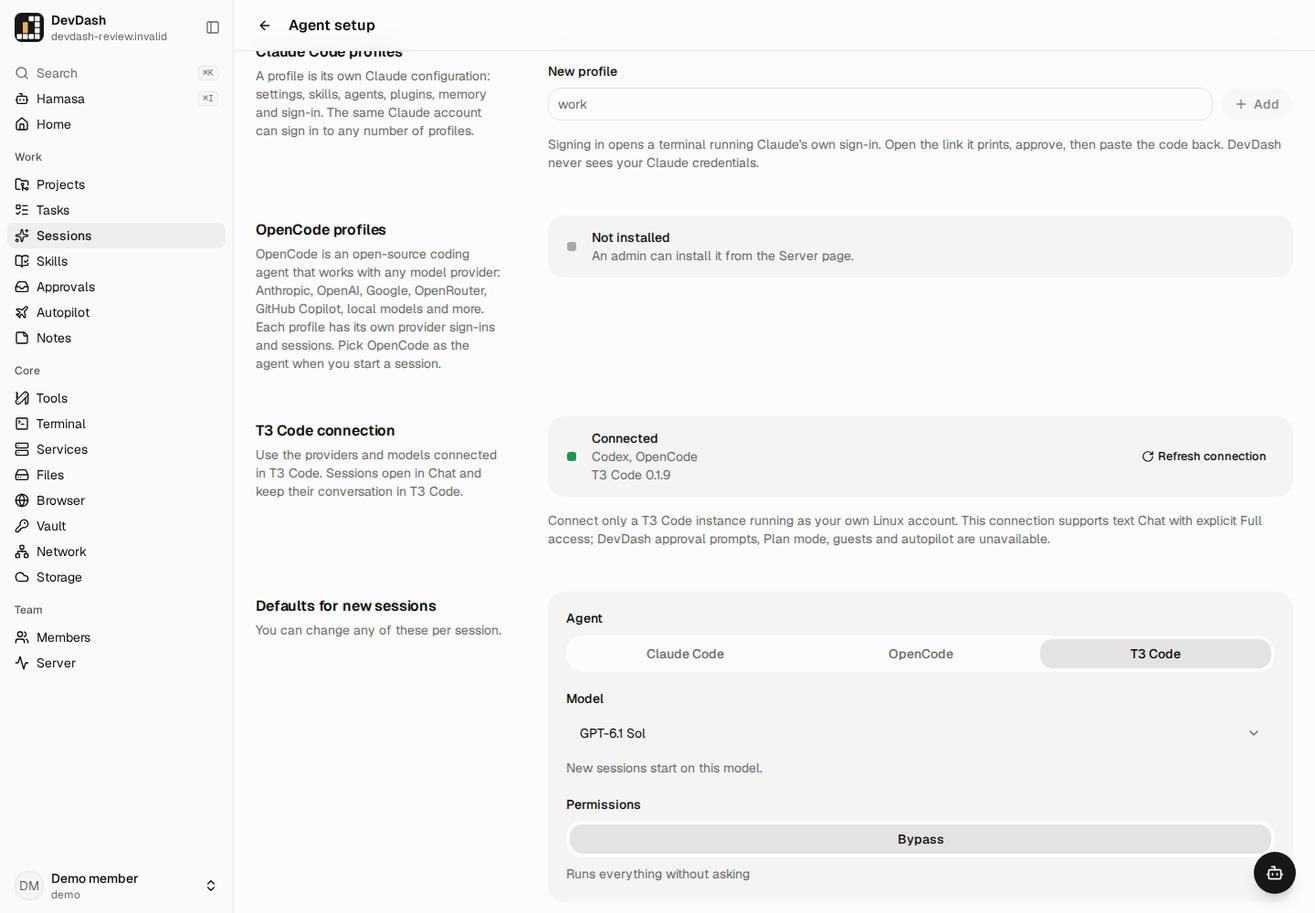
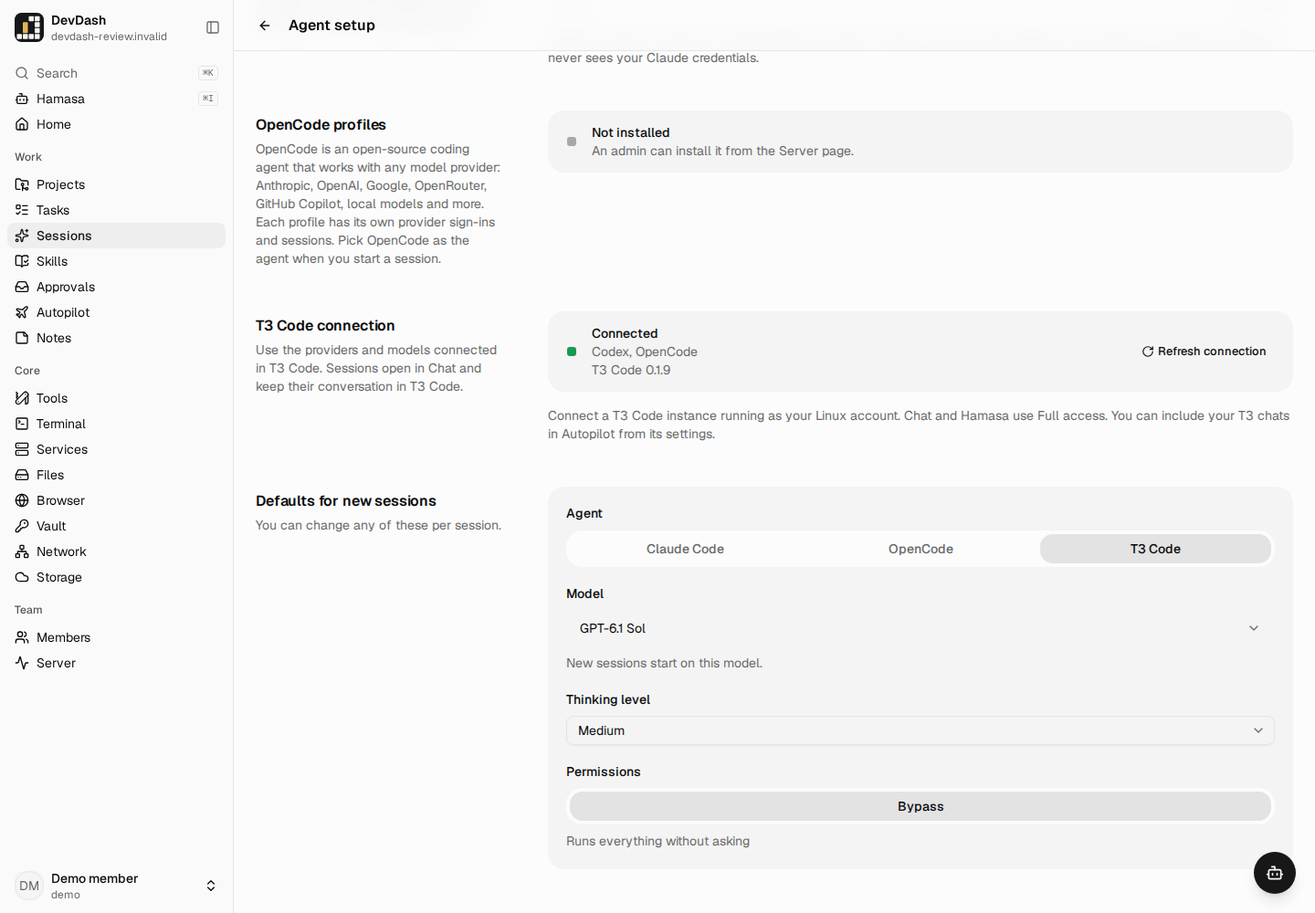
Respect native T3 waits and recheck pending Autopilot actions

diff --git a/apps/server/src/modules/autopilot/service.ts b/apps/server/src/modules/autopilot/service.ts
@@ -83,6 +83,7 @@ export function autopilotService({ db, hub, claude, notify, team = () => undefin
     inboxAdd: db.prepare('insert into autopilot_inbox (user_id, session_id, thread_id, kind, title, detail, created_at, url) values (?, ?, ?, ?, ?, ?, ?, ?) returning id'),
     inboxUrl: db.prepare('select id from autopilot_inbox where user_id = ? and url = ? and title = ? and resolved_at is null'),
     teamOn: db.prepare('select project_id from autopilot_team where user_id = ?'),
+    projectOn: db.prepare('select 1 from autopilot_team where user_id = ? and project_id = ?'),
     teamDone: db.prepare('select 1 from autopilot_team_done where user_id = ? and item = ?'),
     markTeamDone: db.prepare('insert or ignore into autopilot_team_done (user_id, item, at) values (?, ?, ?)'),
     resolveSession: db.prepare('update autopilot_inbox set resolved_at = ? where session_id = ? and resolved_at is null'),
@@ -504,9 +505,8 @@ export function autopilotService({ db, hub, claude, notify, team = () => undefin
       // A settings change or teammate turn can happen during either the history read or the model call.
       const stillCurrent = () => {
         if (s.harness !== 't3code' && r.sv_harness !== 't3code') return true
-        const latest = active(user.id)
-        if (!latest || latest.r.rules !== r.rules || JSON.stringify(settingsOf(latest.r)) !== JSON.stringify(settingsOf(r))) return false
-        const current = candidates(user, latest.r, s.id)[0]
+        if (!sameSettings(user.id, r)) return false
+        const current = candidates(user, r, s.id)[0]
         return current?.verdict.act === true && current.c.goal === c.goal && current.c.lastActivity === c.lastActivity && current.c.status === c.status
       }
       if (!stillCurrent()) return
@@ -550,6 +550,11 @@ export function autopilotService({ db, hub, claude, notify, team = () => undefin
     if (!r?.enabled || (r.paused_until && r.paused_until > Math.floor(now() / 1000))) return null
     const user = q.user.get(userId) as User | undefined
     return user ? { r, user } : null
+  }
+
+  function sameSettings(userId: number, previous: Row) {
+    const current = active(userId)?.r
+    return !!current && current.rules === previous.rules && JSON.stringify(settingsOf(current)) === JSON.stringify(settingsOf(previous))
   }
 
   let sweeping = false
@@ -615,12 +620,15 @@ export function autopilotService({ db, hub, claude, notify, team = () => undefin
     const room = { checked: false }
     const fresh = (at: number) => nowS - at < TEAM_WAIT_MIN * 60
     for (const projectId of projects) {
+      const stillEnabled = () => sameSettings(user.id, r) && !!q.projectOn.get(user.id, projectId)
+      if (!stillEnabled()) continue
       const w = t.waiting(projectId)
       const items = [
         ...w.proposals.map((x) => ({ of: 'proposal' as const, key: `proposal:${x.id}`, at: x.createdAt, x })),
         ...w.asks.filter((x) => x.ask).map((x) => ({ of: 'ask' as const, key: `ask:${x.id}:${x.lastMessage}`, at: x.updatedAt, x })),
       ]
       for (const it of items) {
+        if (!stillEnabled()) break
         if (fresh(it.at) || q.teamDone.get(user.id, it.key)) continue
         if ((q.sentSince.get(user.id, nightStart(now(), r.tz, r.ping_at)) as { n: number }).n >= r.night_cap) return
         const x = it.x
@@ -632,19 +640,27 @@ export function autopilotService({ db, hub, claude, notify, team = () => undefin
           log(user.id, { tier: 'red', source: 'supervisor', project: x.project, what: `Left for you: ${clip(what, 300)}`, why })
           done.push({ user: user.id, session: it.key, what: 'needs_you' })
         }
-        q.markTeamDone.run(user.id, it.key, nowS) // once, whatever happens next
+        const claim = () => !!q.markTeamDone.run(user.id, it.key, nowS).changes
+        const stillPending = () => {
+          if (!stillEnabled()) return false
+          const waiting = t.waiting(projectId)
+          return it.of === 'proposal' ? waiting.proposals.some((p) => p.id === it.x.id)
+            : waiting.asks.some((a) => a.id === it.x.id && !!a.ask && a.lastMessage === it.x.lastMessage)
+        }
         const text = it.of === 'proposal' ? `${x.title}\n${(x as { why: string }).why}` : `${x.title}\n${(x as { ask: string }).ask}`
         // "Other" proposals are a person's call by Team's own design; red words never reach a model.
         const red = it.of === 'proposal' && (x as { kind: string }).kind === 'other' ? "it's a decision Team leaves to a person" : redQuestion(text)
         if (red) {
-          leave(red)
+          if (claim()) leave(red)
           continue
         }
         if (!room.checked) {
           room.checked = true
           if (!(await hasRoom(user, r))) return
         }
+        if (!stillPending()) continue
         if (checkSvCap(user, r)) return
+        let claimed = false
         try {
           const sv = settingsOf(r)
           const prompt = it.of === 'proposal'
@@ -654,6 +670,9 @@ export function autopilotService({ db, hub, claude, notify, team = () => undefin
             system: teamSystem(user.name) + renderRules(r.rules, user.name),
             model: sv.svModel, profile: sv.svProfile, harness: harnessOf(sv.svHarness), ...(sv.svEffort ? { effort: sv.svEffort } : {}),
           }), it.of)
+          // A teammate can answer, the member can opt out, or the review settings can change during inference.
+          if (!stillPending() || !claim()) continue
+          claimed = true
           if (!d || d.action === 'needs_you') {
             leave(d?.why || "autopilot couldn't tell what you'd want", d?.message)
             continue
@@ -669,6 +688,7 @@ export function autopilotService({ db, hub, claude, notify, team = () => undefin
           }
           done.push({ user: user.id, session: it.key, what: d.action })
         } catch (err) {
+          if (!claimed && (!stillPending() || !claim())) continue
           console.error(`autopilot team ${it.key}:`, (err as Error).message)
           leave(`autopilot couldn't act on it: ${clip((err as Error).message, 150)}`)
         }
@@ -687,6 +707,7 @@ export function autopilotService({ db, hub, claude, notify, team = () => undefin
       if (!current || (current.s.harness === 't3code' && !active(user.id))) continue
       const { s, c, mem } = current
       if (c.excluded || c.archived || c.mode !== 'chat' || c.status === 'working') continue
+      if (s.harness === 't3code' && c.status === 'waiting') continue
       let replies: { thread_id: number; title: string; message_id: number; body: string; kind: string; author_label: string }[]
       try {
         replies = q.threadReplies.all(s.id) as typeof replies

diff --git a/apps/agent/src/t3-integration.test.ts b/apps/agent/src/t3-integration.test.ts
@@ -141,8 +141,8 @@ const http = createServer(async (req, res) => {
       const item = t.items.find((i) => i.itemId === `assistant-${current.runId}`)!
       item.text = t.behavior === 'stream' ? (t.reads < 3 ? 'Hel' : 'Hello') : t.behavior === 'cancel' ? 'Working' : ['long', 'longstall'].includes(t.behavior) ? 'L'.repeat(60010) : t.behavior === 'waiting' ? (t.reads < 3 ? '' : 'Approved') : 'Done'
       if (t.behavior === 'transient') { current.status = t.reads < 2 ? 'running' : 'completed'; t.status = t.reads < 2 ? 'waiting' : 'completed'; item.text = 'Final reply'; if (current.status === 'completed') item.status = 'completed' }
-      if (t.behavior === 'waiting') { current.status = t.reads < 3 ? 'waiting' : 'completed'; t.status = current.status }
-      if (['quick', 'long'].includes(t.behavior) || (['stream', 'waiting'].includes(t.behavior) && t.reads >= 3)) {
+      if (t.behavior === 'waiting') { current.status = t.reads < 3 ? 'waiting' : 'running'; t.status = current.status }
+      if (['quick', 'long'].includes(t.behavior) || (t.behavior === 'stream' && t.reads >= 3) || (t.behavior === 'waiting' && t.reads >= 4)) {
         current.status = 'completed'; t.status = 'completed'; item.status = 'completed'
         if (t.behavior === 'stream') t.items.push({ itemId: `tool-${current.runId}`, position: t.items.length, runId: current.runId, type: 'command_execution', createdBy: 'agent', title: 'echo checked', text: 'checked', status: 'completed' })
       }
@@ -176,9 +176,9 @@ const launch = (): Launch => {
 }
 const isResult = (id: string) => (e: Record<string, unknown>) => e.id === id && e.ev === 'claude.msg' && (e.msg as { type?: string }).type === 'result'
 async function turn(l: Launch, text: string) {
-  const result = eventAfter(events.length, isResult(l.id))
+  const start = events.length
   await H.send(l, [{ type: 'text', text }], randomUUID())
-  return (await result).msg as Record<string, unknown>
+  return (await eventAfter(start, isResult(l.id))).msg as Record<string, unknown>
 }
 const contentText = (message: unknown) => ((message as { message?: { content?: { type: string; text?: string }[] } }).message?.content ?? []).filter((b) => b.type === 'text').map((b) => b.text ?? '').join('')
 test.after(async () => {
@@ -238,12 +238,13 @@ process.stdin.on('end', () => server.close())
   const models = [{ id: 'account/chosen', options: [{ id: 'variant', values: ['high', 'stale'] }] }]
   const providers = [
     { providerInstanceId: 'local', driverKind: 'opencode' },
+    { providerInstanceId: 'broken', driverKind: 'opencode' },
     { providerInstanceId: 'custom', driverKind: 'opencode' },
     { providerInstanceId: 'other', driverKind: 'codex' },
   ]
   supervisorProviders = providers.map((p) => ({ ...p, canRunChildTask: true, displayName: p.providerInstanceId, models }))
   const simple = { driver: 'opencode', enabled: true, config: { binaryPath: binary } }
-  const settings = { providerInstances: { local: simple, custom: { ...simple, config: { ...simple.config, env: { ACCOUNT: 'another' } } }, other: simple } }
+  const settings = { providerInstances: { local: simple, broken: { ...simple, config: { binaryPath: '/bin/false' } }, custom: { ...simple, config: { ...simple.config, env: { ACCOUNT: 'another' } } }, other: simple } }
   mkdirSync(join(folder, 'userdata'))
   writeFileSync(join(folder, 'userdata/settings.json'), JSON.stringify(settings))
   writeFileSync(config, JSON.stringify({ ...JSON.parse(original), baseDir: folder }))
@@ -452,13 +453,17 @@ test('T3 full text pages are joined and waiting notices point to T3 without bein
   assert.equal(done.result, 'Approved')
   const notices = events.slice(start).filter((e) => e.id === l.id && e.ev === 'claude.msg' && (e.msg as { type?: string }).type === 'assistant').map((e) => contentText(e.msg)).filter((text) => text.includes('needs an answer'))
   assert.equal(notices.length, 1)
+  assert.deepEqual(events.slice(start).filter((e) => e.id === l.id && e.ev === 'claude.status').map((e) => e.status), ['working', 'waiting', 'working', 'idle'])
+  assert.equal(H.pendingFor(l.id).length, 0)
   assert.match(notices[0]!, /https:\/\/t3.example\/thread/)
   await H.stop(l.id)
 })
 
 test('T3 transient waiting without a pending request does not replace the real final reply', async () => {
   const l = launch()
+  const start = events.length
   const done = await turn(l, 'transient-wait')
+  assert.ok(!events.slice(start).some((e) => e.id === l.id && e.ev === 'claude.status' && e.status === 'waiting'))
   assert.equal(done.result, 'Final reply')
   const history = H.history(l).messages.map(contentText).join('\n')
   assert.ok(!history.includes('needs an approval or answer'))
@@ -591,9 +596,11 @@ test('Hamasa and Autopilot invoke only their workflow tools with the current mem
   const native = `thread-${threads.size + 1}`
   const socket = join(home, "member's agent.sock")
   const requests: { method: string; params: { sessionId: string; cwd: string; args: Record<string, unknown> } }[] = []
+  let brokenReply: 'invalid' | 'disconnect' | undefined
   const server = unixServer((s) => s.on('data', (buf) => {
     const req = JSON.parse(String(buf))
     requests.push(req)
+    if (brokenReply && req.method === 'mcp.sessions_list') return s.end(brokenReply === 'invalid' ? 'invalid JSON\n' : '')
     const reply = req.method === 'mcp.assistant_here' ? { name: 'Test' } : req.method === 'mcp.autopilot_here' ? true : req.method === 'mcp.team_role' ? { session: true } : 'From the member socket'
     s.end(JSON.stringify({ result: reply }) + '\n')
   })).listen(socket)
@@ -624,6 +631,14 @@ test('Hamasa and Autopilot invoke only their workflow tools with the current mem
         cmd.child.stdin!.end('{"mine":true}')
         assert.match((await cmd).stdout, /From the member socket/)
         assert.deepEqual(requests.at(-1), { op: 'rpc', method: 'mcp.' + name, params: { sessionId: l.id, cwd: home, args: { mine: true } } })
+        if (assistant) {
+          for (brokenReply of ['invalid', 'disconnect'] as const) {
+            const broken = run(helper, ['call', name])
+            broken.child.stdin!.end('{}')
+            await assert.rejects(broken, brokenReply === 'invalid' ? /unreadable response/ : /disconnected before answering/)
+          }
+          brokenReply = undefined
+        }
         const rejected = run(helper, ['call', 'unlisted'])
         rejected.child.stdin!.end('{}')
         await assert.rejects(rejected, /Unknown workflow tool/)

diff --git a/apps/web/src/features/claude/SessionsPage.tsx b/apps/web/src/features/claude/SessionsPage.tsx
@@ -200,12 +200,16 @@ export function NewSession({ open, onClose, initialPrompt = '', initialCwd, init
   useEffect(() => { if (open) { setPrompt(initialPrompt); setCwd(initialCwd ?? sessionFolder()); setProject(initialProject ?? ''); setSharing(null) } }, [open, initialPrompt, initialCwd, initialProject])
 
   const agent = HARNESS[harness]
-  const other = (setup.data?.agents as { harness: string; installed: boolean; profiles: { name: string }[]; error?: string }[] | undefined)?.find((a) => a.harness === harness)
+  const other = (setup.data?.agents as { harness: string; installed: boolean; profiles: { name: string; providers: string[] }[]; error?: string }[] | undefined)?.find((a) => a.harness === harness)
   // Claude profiles say whether they're signed in; OpenCode's always work (its free models need no sign-in).
   const profiles = harness === 'claude' ? (setup.data?.profiles as { name: string; loggedIn: boolean }[] | undefined) ?? []
     : (other?.profiles ?? []).map((p) => ({ name: p.name, loggedIn: true }))
   const chosen = profiles.find((p) => p.name === profile)
-  const missing = harness !== 'claude' && setup.isSuccess && (!other?.installed || other.error) ? other ?? { error: 'This agent is unavailable.' } : undefined
+  let missing: string | undefined
+  if (harness !== 'claude' && setup.isSuccess) {
+    if (other?.error || !other?.installed) missing = other?.error || (harness === 't3code' ? 'T3 Code is not connected.' : 'This agent is unavailable.')
+    else if (harness === 't3code' && !other.profiles.some((p) => p.providers.length)) missing = 'Connect a model provider in T3 Code, then refresh the connection in Agent setup.'
+  }
   // The models this agent offers (Claude Code's with their versions; OpenCode's from every provider you connected).
   const offered = useOfferedModels(profile, harness, model, open && !missing && (!profiles.length || !!chosen))
   const models: ModelInfo[] = offered?.length ? offered : harness === 'claude' ? FALLBACK_MODELS : [{ value: '', displayName: 'Default' }]
@@ -226,9 +230,10 @@ export function NewSession({ open, onClose, initialPrompt = '', initialCwd, init
       navigate({ to: '/sessions/$id', params: { id: session.id } })
     },
   })
+  const canStart = !create.isPending && !missing && supportedMode && (!customModel || !!model.trim())
   const submit = (e: FormEvent) => {
     e.preventDefault()
-    if (!create.isPending && supportedMode) create.mutate()
+    if (canStart) create.mutate()
   }
 
   return (
@@ -268,10 +273,10 @@ export function NewSession({ open, onClose, initialPrompt = '', initialCwd, init
           )}
           <Choice id="ns-agent" label="Agent" value={harness} onChange={(v) => { const next = HARNESS[v as Harness]; setHarness(v as Harness); setProfile('default'); setModel(''); setEffort(null); setCustomModel(false); if (!next.cli) setOpenIn('chat'); if (!next.modes.includes(perm)) setPerm('bypassPermissions') }}
             options={HARNESSES.map((h) => ({ value: h, label: HARNESS[h].label }))} description={agent.hint} />
-          {!agent.toolPolicies && <Alert><AlertDescription>This connection runs with your Linux account’s full access. DevDash approval prompts, Plan mode, guest permissions and autopilot are unavailable.</AlertDescription></Alert>}
+          {!agent.toolPolicies && <Alert><AlertDescription>This connection runs with your Linux account’s full access. To include T3 chats in Autopilot, enable them in Autopilot settings.</AlertDescription></Alert>}
           {missing && (
             <Alert variant="destructive">
-              <AlertDescription>{harness === 't3code' ? <>{missing.error || 'T3 Code is not connected.'} <Link to="/sessions/setup" className="underline" onClick={onClose}>Check the connection</Link>.</> : <>{agent.label} isn't installed on this server yet. An admin can install it from the <Link to="/server" className="underline" onClick={onClose}>Server page</Link>.</>}</AlertDescription>
+              <AlertDescription>{harness === 't3code' ? <>{missing} <Link to="/sessions/setup" className="underline" onClick={onClose}>Check the connection</Link>.</> : <>{agent.label} isn't installed on this server yet. An admin can install it from the <Link to="/server" className="underline" onClick={onClose}>Server page</Link>.</>}</AlertDescription>
             </Alert>
           )}
           {harness === 'opencode' && !missing && offered?.length === 0 && (
@@ -304,7 +309,7 @@ export function NewSession({ open, onClose, initialPrompt = '', initialCwd, init
             options={[{ value: 'chat', label: 'Chat' }, { value: 'cli', label: 'CLI' }]}
             description={openIn === 'cli' ? `${agent.cli}. You can switch to Chat any time.` : `A chat view of ${agent.label}. You can switch to the CLI any time.`} />}
           <ErrorAlert error={create.error} />
-          <Button type="submit" size="lg" className="h-10" disabled={create.isPending || !!missing || !supportedMode || (customModel && !model.trim())}>
+          <Button type="submit" size="lg" className="h-10" disabled={!canStart}>
             {create.isPending && <Spinner />}Start session
           </Button>
         </FieldGroup>

diff --git a/apps/server/src/modules/autopilot/autopilot.test.ts b/apps/server/src/modules/autopilot/autopilot.test.ts
@@ -273,6 +273,12 @@ test("a role's reply in a thread the session started is passed on to it, once", 
   const msg = t.db.prepare('insert into team_messages (thread_id, kind, body, author_role_id, author_session_id, author_label) values (?, ?, ?, ?, ?, ?)')
   msg.run(th, 'question', 'Can we ship the pricing page?', null, 's1', 'Session s1')
   msg.run(th, 'reply', 'Yes, but drop the annual toggle.', ceo, null, 'CEO')
+  // A native question must stay with its owner even if a role answered the session's thread.
+  t.db.prepare("update claude_sessions set harness = 't3code', drive = 0, permission_mode = 'bypassPermissions', status = 'waiting' where id = 's1'").run()
+  await t.autopilot.setSettings(t.yo, { t3Sessions: true })
+  await t.autopilot.sweep()
+  assert.equal(t.sends().length, 0)
+  t.quiet('s1')
   const did = await t.autopilot.sweep()
   assert.ok(did.some((d) => d.what === 'relay'))
   assert.match(JSON.stringify(t.sends().at(-1)!.content), /CEO wrote in team thread #\d+ \\"Pricing page\\"[\s\S]*drop the annual toggle/)
@@ -749,4 +755,31 @@ test('disabling T3 enrollment during a supervisor decision also skips later T3 t
   assert.deepEqual(await t.autopilot.sweep(), [])
   assert.equal(t.sent.filter((r) => r.op === 'claude.history').length, 1)
   assert.equal(t.sends().length, 0)
+})
+
+test('a T3 supervisor cannot answer a team ask after its project is turned off mid-decision', async () => {
+  const answers: string[] = []
+  const t = setup({ team: {
+    projects: () => [{ id: 1, slug: 'shop', name: 'Shop' }],
+    waiting: () => ({ proposals: [], asks: [{ id: 7, title: 'Wording', ask: 'Short or long?', role: 'CEO', project: 'shop',
+      updatedAt: nowS - 3600, lastMessage: 1, url: '/projects/shop/team/threads/7', recent: ['Short or long?'] }] }),
+    approve: async () => {},
+    answer: (_u, _slug, _id, text) => answers.push(text),
+  } })
+  t.db.prepare("insert into projects (id, slug, name, created_by) values (1, 'shop', 'Shop', 1)").run()
+  t.autopilot.setEnabled(t.yo, true)
+  t.autopilot.setTeam(t.yo, 1, true)
+  await t.autopilot.setSettings(t.yo, { svHarness: 't3code', svModel: 'opencode/test/model' })
+  const complete = t.claude.complete
+  t.claude.complete = async () => {
+    t.autopilot.setTeam(t.yo, 1, false)
+    return '{"action":"answer","tier":"green","message":"Short","why":"agreed"}'
+  }
+  assert.deepEqual(await t.autopilot.teamAsks(t.yo), [])
+  assert.equal(answers.length, 0)
+  t.claude.complete = complete
+  t.reply.decision = '{"action":"answer","tier":"green","message":"Short","why":"agreed"}'
+  t.autopilot.setTeam(t.yo, 1, true)
+  await t.autopilot.teamAsks(t.yo)
+  assert.equal(answers.length, 1)
 })

diff --git a/apps/agent/src/t3code.ts b/apps/agent/src/t3code.ts
@@ -51,8 +51,12 @@ function supervisorBins(providers: Capabilities['providers']): Map<string, strin
       const config = instance.config ?? {}
       if (config.enabled === false || Object.keys(config).some((k) => !['binaryPath', 'customModels', 'enabled'].includes(k))) continue
       const bin = config.binaryPath
-      if (typeof bin !== 'string' || !isAbsolute(bin) || !statSync(bin, { throwIfNoEntry: false })?.isFile()) continue
-      try { accessSync(bin, constants.X_OK); bins.set(p.providerInstanceId, bin) } catch { /* unusable executable */ }
+      if (typeof bin !== 'string' || !isAbsolute(bin)) continue
+      try {
+        if (!statSync(bin).isFile()) continue
+        accessSync(bin, constants.X_OK)
+        bins.set(p.providerInstanceId, bin)
+      } catch { /* An unusable executable doesn't affect the member's other instances. */ }
     }
   } catch { /* Other T3 chat models remain available without local provider configuration. */ }
   return bins
@@ -71,7 +75,10 @@ export async function supervisorTarget(value: string, effort?: string) {
 export async function modelChoices(search?: string, supervisor = false) {
   const { capabilities } = await inspect(5000, search)
   const bins = supervisor ? supervisorBins(capabilities.providers) : new Map<string, string>()
-  const catalogs = new Map(await Promise.all([...new Set(bins.values())].map(async (bin) => [bin, await supervisorModels(bin)] as const)))
+  const catalogs = new Map<string, Awaited<ReturnType<typeof supervisorModels>>>()
+  const probes = await Promise.allSettled([...new Set(bins.values())].map(async (bin) => catalogs.set(bin, await supervisorModels(bin))))
+  const failed = probes.find((probe) => probe.status === 'rejected')
+  if (!catalogs.size && failed) throw failed.reason
   const rows = capabilities.providers.flatMap((p) => {
     const native = catalogs.get(bins.get(p.providerInstanceId) ?? '')
     return p.models.flatMap((m) => {

diff --git a/apps/agent/src/t3-acp.ts b/apps/agent/src/t3-acp.ts
@@ -280,7 +280,8 @@ const handlers: Record<string, (p: Record<string, unknown>) => unknown> = {
       const runId = result.runId
       running = runId
       const deadline = deadlineAt
-      let announcedWaiting = false
+      let waiting = false
+      let waits = 0
       let settled = false
       let cursor = afterPosition
       let interval = 250
@@ -308,9 +309,11 @@ const handlers: Record<string, (p: Record<string, unknown>) => unknown> = {
             settled = true
             throw new Error('T3 Code reached the turn time limit and the DevDash-started run was stopped.')
           }
-          if (thread.status === 'waiting' && (thread.pendingRequestCount ?? 0) > 0 && !announcedWaiting) {
-            announcedWaiting = true
-            update({ sessionUpdate: 'agent_message_chunk', messageId: `waiting-${runId}`, content: { type: 'text', text: `\nT3 Code needs an answer. Continue in T3 Code${thread.link ? `: ${thread.link}` : '.'}\n` } })
+          const pending = thread.status === 'waiting' && (thread.pendingRequestCount ?? 0) > 0
+          if (pending !== waiting) {
+            waiting = pending
+            update({ sessionUpdate: 'session_info_update', _meta: { 'devdash/t3-status': { status: pending ? 'waiting' : 'working' } } })
+            if (pending) update({ sessionUpdate: 'agent_message_chunk', messageId: `waiting-${runId}-${++waits}`, content: { type: 'text', text: `\nT3 Code needs an answer. Continue in T3 Code${thread.link ? `: ${thread.link}` : '.'}\n` } })
           }
           // Completed older items need not be paged again. Keep the newest item and any unfinished items because
           // their positions stay fixed while T3 appends streamed text or finishes tool output.

diff --git a/apps/web/src/features/claude/SessionPage.tsx b/apps/web/src/features/claude/SessionPage.tsx
@@ -548,7 +548,7 @@ export function ModelMenu({ s, disabled, isOwner, onUpdate, compact }: { s: Sess
   const t3Busy = harness === 't3code' && (s.status === 'working' || s.status === 'waiting')
   return (
     <DropdownMenu>
-      <DropdownMenuTrigger asChild disabled={disabled}>
+      <DropdownMenuTrigger asChild disabled={disabled || t3Busy}>
         {compact ? (
           <Button variant="ghost" size="icon" className="shrink-0" aria-label="Model, effort and permissions" title="Model, effort and permissions"><SlidersHorizontal /></Button>
         ) : (
@@ -580,7 +580,7 @@ export function ModelMenu({ s, disabled, isOwner, onUpdate, compact }: { s: Sess
           </DropdownMenuSubContent>
         </DropdownMenuSub>
         {agent.effort && (harness === 'claude' || levels.length > 0 || (harness === 't3code' && !!s.effort)) && <DropdownMenuSub>
-          <DropdownMenuSubTrigger disabled={t3Busy}>{harness === 't3code' ? `Thinking level: ${s.effort ? effortLabel(s.effort) : 'Default'}` : `Effort: ${s.effort ?? 'auto'}`}</DropdownMenuSubTrigger>
+          <DropdownMenuSubTrigger>{harness === 't3code' ? `Thinking level: ${s.effort ? effortLabel(s.effort) : 'Default'}` : `Effort: ${s.effort ?? 'auto'}`}</DropdownMenuSubTrigger>
           <DropdownMenuSubContent>
             <DropdownMenuRadioGroup value={s.effort ?? ''} onValueChange={(v) => onUpdate({ effort: v || null })}>
               <DropdownMenuRadioItem value="">{harness === 't3code' ? 'Default' : 'Auto'}</DropdownMenuRadioItem>

diff --git a/apps/web/src/features/claude/SetupPage.tsx b/apps/web/src/features/claude/SetupPage.tsx
@@ -107,7 +107,7 @@ function T3CodeSection({ agent, refresh, refreshing, error }: { agent: Agent | u
         <span className="flex size-5 shrink-0 items-center justify-center"><StatusLight state={connected ? 'live' : 'idle'} /></span>
         <span className="min-w-0 flex-1">
           <span className="block font-medium">{connected ? 'Connected' : 'Not connected'}</span>
-          <span className="block text-pretty text-muted-foreground">{agent?.error || (connected ? providers.join(', ') || 'T3 Code is ready.' : 'Configure a T3 Code connection for your account on this server, then check again.')}</span>
+          <span className="block text-pretty text-muted-foreground">{agent?.error || (connected ? providers.join(', ') || 'Connect a model provider in T3 Code, then refresh the connection.' : 'Configure a T3 Code connection for your account on this server, then check again.')}</span>
           {connected && agent?.version && <span className="block text-muted-foreground">T3 Code {agent.version}</span>}
         </span>
         <Button size="sm" variant="outline" disabled={refreshing} onClick={refresh}><RotateCw className={refreshing ? 'animate-spin' : ''} />Refresh connection</Button>

diff --git a/apps/agent/src/harness.ts b/apps/agent/src/harness.ts
@@ -416,6 +416,8 @@ function update(c: Chat, p: Record<string, unknown>) {
     case 'session_info_update': {
       if (typeof u.title === 'string' && u.title.trim() && !c.replay) emit({ ev: 'claude.title', id, title: u.title.trim().slice(0, 120) })
       const meta = (u._meta ?? {}) as Record<string, { error?: { message?: string }; status?: string } | null | undefined>
+      const t3Status = meta['devdash/t3-status']?.status
+      if (!c.replay && c.launch.harness === 't3code' && (t3Status === 'working' || t3Status === 'waiting')) setStatus(c, id, t3Status)
       if ('opencode/retry' in meta && !c.replay) {
         const r = meta['opencode/retry']
         setStatus(c, id, 'working', r ? `Retrying: ${r.error?.message ?? 'the model call failed'}`.slice(0, 300) : undefined)
@@ -659,7 +661,7 @@ export const send = (l: Launch, content: unknown[], uuid: string, guest: Guest |
   }
   c.queue.push({ content, uuid, guest: !!guest, workflow })
   c.lastActive = Date.now()
-  setStatus(c, l.id, 'working')
+  if (!(c.launch.harness === 't3code' && c.status === 'waiting')) setStatus(c, l.id, 'working')
   void runTurns(c)
 })
 
